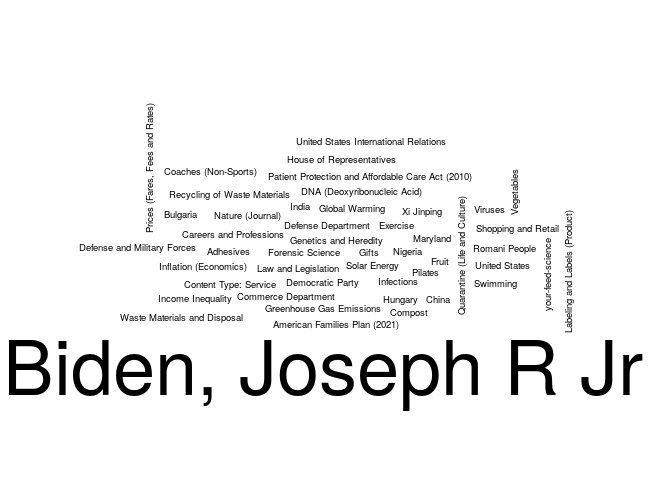
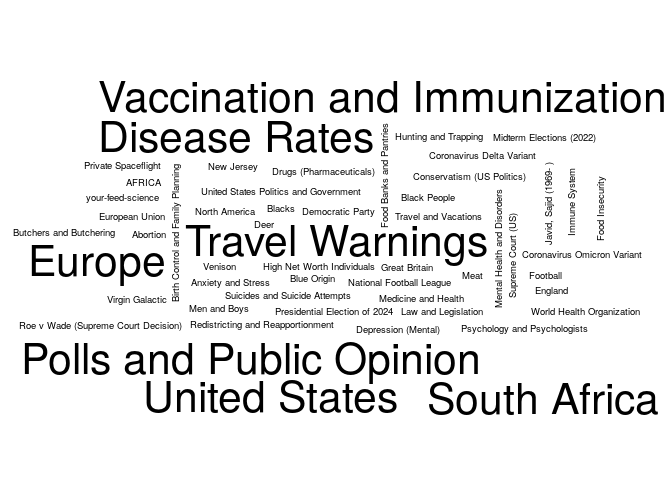
Updating the NYT report

Changed region(s): [[0.0, 0.1562, 1.0, 0.875]]

diff --git a/03-nytimes/README.md b/03-nytimes/README.md
@@ -5,7 +5,7 @@ The following is an example of how to use the [NYTimes
 API](https://developer.nytimes.com/) to get a list of articles related
 to a particular term. Here we are searching articles that include the
 term `"health"`, and that were published up to seven days ago since
-2021-11-22.
+2021-11-29.
 
 ``` r
 # Preparing a function to use the GET method with the NYTimes API
@@ -83,25 +83,25 @@ colnames(tab) <- c("Keyword", "# Articles")
 knitr::kable(tab, row.names = FALSE)
 ```
 
-| Keyword                                    | \# Articles |
-|:-------------------------------------------|------------:|
-| Biden, Joseph R Jr                         |          20 |
-| Centers for Disease Control and Prevention |          20 |
-| United States Economy                      |          20 |
-| United States Politics and Government      |          20 |
-| Adhesives                                  |          10 |
-| American Families Plan (2021)              |          10 |
-| Bulgaria                                   |          10 |
-| Careers and Professions                    |          10 |
-| China                                      |          10 |
-| Coaches (Non-Sports)                       |          10 |
-| Commerce Department                        |          10 |
-| Compost                                    |          10 |
-| Content Type: Service                      |          10 |
-| Defense and Military Forces                |          10 |
-| Defense Department                         |          10 |
-| Democratic Party                           |          10 |
-| DNA (Deoxyribonucleic Acid)                |          10 |
-| Exercise                                   |          10 |
-| Forensic Science                           |          10 |
-| Fruit                                      |          10 |
+| Keyword                           | \# Articles |
+|:----------------------------------|------------:|
+| Coronavirus (2019-nCoV)           |          30 |
+| Disease Rates                     |          20 |
+| Europe                            |          20 |
+| Polls and Public Opinion          |          20 |
+| South Africa                      |          20 |
+| Travel Warnings                   |          20 |
+| United States                     |          20 |
+| Vaccination and Immunization      |          20 |
+| Abortion                          |          10 |
+| AFRICA                            |          10 |
+| Anxiety and Stress                |          10 |
+| Birth Control and Family Planning |          10 |
+| Black People                      |          10 |
+| Blacks                            |          10 |
+| Blue Origin                       |          10 |
+| Butchers and Butchering           |          10 |
+| Conservatism (US Politics)        |          10 |
+| Coronavirus Delta Variant         |          10 |
+| Coronavirus Omicron Variant       |          10 |
+| Deer                              |          10 |
